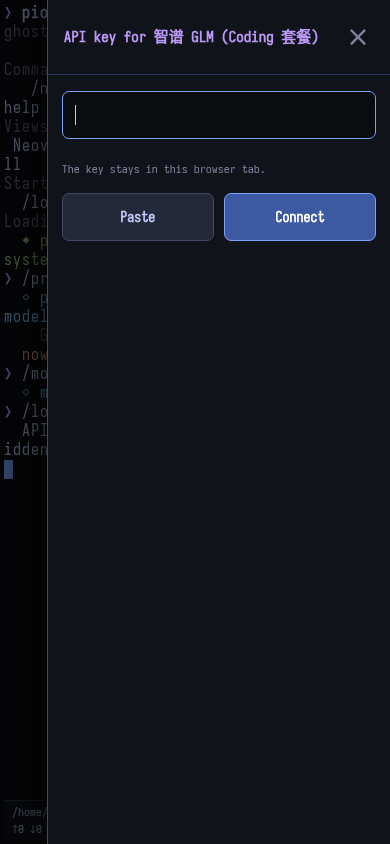
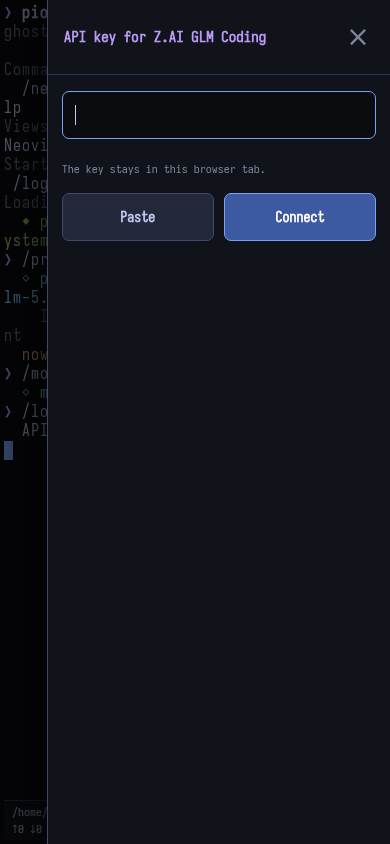
fix: verify GLM Coding credentials

diff --git a/src/provider-auth.ts b/src/provider-auth.ts
@@ -1,0 +1,71 @@
+import type { ProviderDef } from "./providers.ts";
+
+type FetchLike = (
+  input: RequestInfo | URL,
+  init?: RequestInit,
+) => Promise<Response>;
+
+export type ApiKeyVerification = "verified" | "not-supported";
+
+const GLM_PROVIDERS = new Set([
+  "zhipu",
+  "zhipu-coding",
+  "zhipu-coding-cn",
+]);
+
+export function normalizeApiKey(value: string): string {
+  let normalized = value.trim().replace(/^Bearer\s+/i, "").trim();
+  if (
+    normalized.length >= 2 &&
+    ((normalized.startsWith('"') && normalized.endsWith('"')) ||
+      (normalized.startsWith("'") && normalized.endsWith("'")))
+  ) {
+    normalized = normalized.slice(1, -1);
+  }
+  return normalized.replace(/[\s\u200B-\u200D\u2060\uFEFF]+/gu, "");
+}
+
+function responseMessage(text: string): string {
+  try {
+    const parsed = JSON.parse(text) as {
+      error?: { message?: unknown };
+      message?: unknown;
+    };
+    const message = parsed.error?.message ?? parsed.message;
+    return typeof message === "string" ? message.trim().slice(0, 240) : "";
+  } catch {
+    return text.trim().slice(0, 240);
+  }
+}
+
+export async function verifyApiKey(
+  provider: Pick<ProviderDef, "name" | "label" | "baseUrl">,
+  apiKey: string,
+  fetchImpl: FetchLike = fetch,
+): Promise<ApiKeyVerification> {
+  if (!GLM_PROVIDERS.has(provider.name)) return "not-supported";
+
+  let response: Response;
+  try {
+    response = await fetchImpl(`${provider.baseUrl.replace(/\/+$/, "")}/models`, {
+      headers: { Authorization: `Bearer ${apiKey}` },
+    });
+  } catch (error) {
+    throw new Error(
+      `could not verify ${provider.label}: ${
+        error instanceof Error ? error.message : String(error)
+      }`,
+    );
+  }
+
+  if (response.ok) return "verified";
+
+  const detail = responseMessage(await response.text().catch(() => ""));
+  const suffix = detail ? `: ${detail}` : "";
+  if (response.status === 401 || response.status === 403) {
+    throw new Error(`${provider.label} rejected this API key${suffix}`);
+  }
+  throw new Error(
+    `${provider.label} key check returned HTTP ${response.status}${suffix}`,
+  );
+}

diff --git a/test/provider-auth.test.ts b/test/provider-auth.test.ts
@@ -1,0 +1,60 @@
+import assert from "node:assert/strict";
+import test from "node:test";
+import { normalizeApiKey, verifyApiKey } from "../src/provider-auth.ts";
+
+const glmCoding = {
+  name: "zhipu-coding",
+  label: "GLM Coding",
+  baseUrl: "https://api.z.ai/api/coding/paas/v4/",
+};
+
+test("API key normalization removes common copy/paste artifacts", () => {
+  assert.equal(normalizeApiKey("  Bearer abc.def  \n"), "abc.def");
+  assert.equal(normalizeApiKey('"abc.def"'), "abc.def");
+  assert.equal(normalizeApiKey("abc\u200B.def"), "abc.def");
+});
+
+test("GLM API keys are verified without making a completion request", async () => {
+  let request: { input: RequestInfo | URL; init?: RequestInit } | undefined;
+  const result = await verifyApiKey(glmCoding, "test-key", async (input, init) => {
+    request = { input, init };
+    return new Response('{"object":"list","data":[]}', { status: 200 });
+  });
+
+  assert.equal(result, "verified");
+  assert.equal(
+    String(request?.input),
+    "https://api.z.ai/api/coding/paas/v4/models",
+  );
+  assert.equal(
+    new Headers(request?.init?.headers).get("Authorization"),
+    "Bearer test-key",
+  );
+});
+
+test("GLM rejects invalid keys during login", async () => {
+  await assert.rejects(
+    verifyApiKey(glmCoding, "invalid", async () =>
+      new Response(
+        '{"error":{"code":"401","message":"token expired or incorrect"}}',
+        { status: 401 },
+      ),
+    ),
+    /GLM Coding rejected this API key: token expired or incorrect/,
+  );
+});
+
+test("providers without a safe key-check endpoint remain unchanged", async () => {
+  const result = await verifyApiKey(
+    {
+      name: "openai",
+      label: "OpenAI",
+      baseUrl: "https://api.openai.com/v1",
+    },
+    "test-key",
+    async () => {
+      throw new Error("fetch should not run");
+    },
+  );
+  assert.equal(result, "not-supported");
+});

diff --git a/src/providers.ts b/src/providers.ts
@@ -190,16 +190,31 @@ export const PROVIDERS: Record<string, ProviderDef> = {
   },
   "zhipu-coding": {
     name: "zhipu-coding",
-    label: "智谱 GLM (Coding 套餐)",
+    label: "Z.AI GLM Coding",
+    api: "openai-completions",
+    transport: "http",
+    auth: "api-key",
+    baseUrl: "https://api.z.ai/api/coding/paas/v4",
+    defaultModel: "glm-5.2",
+    loadModels: modelCatalogue("zhipu-coding", "glm-5.2", () =>
+      import("@earendil-works/pi-ai/providers/zai.models").then((module) => module.ZAI_MODELS),
+    ),
+    note: "International GLM Coding Plan endpoint",
+  },
+  "zhipu-coding-cn": {
+    name: "zhipu-coding-cn",
+    label: "智谱 GLM Coding (中国)",
     api: "openai-completions",
     transport: "http",
     auth: "api-key",
     baseUrl: "https://open.bigmodel.cn/api/coding/paas/v4",
     defaultModel: "glm-5.2",
-    loadModels: modelCatalogue("zhipu-coding", "glm-5.2", () =>
-      import("@earendil-works/pi-ai/providers/zai.models").then((module) => module.ZAI_MODELS),
+    loadModels: modelCatalogue("zhipu-coding-cn", "glm-5.2", () =>
+      import("@earendil-works/pi-ai/providers/zai-coding-cn.models").then(
+        (module) => module.ZAI_CODING_CN_MODELS,
+      ),
     ),
-    note: "GLM Coding Plan 订阅专用端点",
+    note: "China GLM Coding Plan endpoint",
   },
   // Local-only subscription auth bridge; OAuth credentials never enter the
   // browser.
@@ -242,6 +257,9 @@ const ALIASES: Record<string, ProviderDef> = {
   kimi: PROVIDERS.moonshot,
   glm: PROVIDERS.zhipu,
   "glm-coding": PROVIDERS["zhipu-coding"],
+  "glm-coding-cn": PROVIDERS["zhipu-coding-cn"],
+  zai: PROVIDERS["zhipu-coding"],
+  "zai-coding": PROVIDERS["zhipu-coding"],
   zhipuai: PROVIDERS.zhipu,
   bigmodel: PROVIDERS.zhipu,
   moonshotai: PROVIDERS.moonshot,

diff --git a/src/main.ts b/src/main.ts
@@ -67,6 +67,7 @@ import { makeJsRunner, startWasiProgram, supportsWorkerWasi } from "./wasi/brows
 import { installWasiPythonModule } from "./wasi/python-module.ts";
 import { SlopSession } from "./slop.ts";
 import { MobileCommandUi } from "./mobile-command-ui.ts";
+import { normalizeApiKey, verifyApiKey } from "./provider-auth.ts";
 
 const NEOVIM_ENABLED = import.meta.env.VITE_ENABLE_NEOVIM !== "0";
 
@@ -1383,10 +1384,17 @@ async function runSlash(input: string) {
         break;
       }
       const key = await prompt.ask(`  API key for ${provider.label} (hidden): `, true);
-      const trimmed = key.trim();
-      if (trimmed) {
-        apiKeys.set(provider.name, trimmed);
-        say(green(`  ◆ key set for ${provider.label}`));
+      const normalized = normalizeApiKey(key);
+      if (normalized) {
+        const verification = await verifyApiKey(provider, normalized);
+        apiKeys.set(provider.name, normalized);
+        say(
+          green(
+            `  ◆ key ${verification === "verified" ? "verified and " : ""}set for ${
+              provider.label
+            }`,
+          ),
+        );
       } else {
         say(yellow("  login cancelled"));
       }

diff --git a/src/openai-stream.ts b/src/openai-stream.ts
@@ -323,7 +323,7 @@ async function run(
 
   if (!resp.ok || !resp.body) {
     const text = await resp.text().catch(() => "");
-    emitError(stream, model, `HTTP ${resp.status} ${resp.statusText}\n${text}`.trim());
+    emitError(stream, model, formatHttpError(resp.status, resp.statusText, text));
     return;
   }
 
@@ -560,6 +560,23 @@ function emitError(stream: EventQueue, model: Model<Api>, message: string) {
     timestamp: Date.now(),
   };
   stream.push({ type: "error", reason: "error", error });
+}
+
+export function formatHttpError(
+  status: number,
+  statusText: string,
+  text: string,
+): string {
+  const trimmed = text.trim();
+  if (trimmed) {
+    try {
+      const parsed = JSON.parse(trimmed) as { error?: unknown };
+      return `Error: ${status}: ${JSON.stringify(parsed.error ?? parsed)}`;
+    } catch {
+      return `Error: ${status}${statusText ? ` ${statusText}` : ""}: ${trimmed}`;
+    }
+  }
+  return `Error: ${status}${statusText ? ` ${statusText}` : ""}`;
 }
 
 /* ------------------------------- mappers -------------------------------- */

diff --git a/test/browser-models.test.ts b/test/browser-models.test.ts
@@ -254,3 +254,17 @@ test("WebLLM is an independent WebGPU catalogue with tool support marked", async
 test("browser-local providers are the first choices", () => {
   assert.deepEqual(Object.keys(PROVIDERS).slice(0, 2), ["webllm", "wllama"]);
 });
+
+test("GLM Coding separates the international and China endpoints", async () => {
+  const international = getProvider("glm-coding");
+  const china = getProvider("glm-coding-cn");
+  assert.ok(international);
+  assert.ok(china);
+
+  assert.equal(international, getProvider("zai"));
+  assert.equal(international, getProvider("zai-coding"));
+  assert.equal(international.baseUrl, "https://api.z.ai/api/coding/paas/v4");
+  assert.equal(china.baseUrl, "https://open.bigmodel.cn/api/coding/paas/v4");
+  assert.ok((await international.loadModels()).includes("glm-5.2"));
+  assert.ok((await china.loadModels()).includes("glm-5.2"));
+});

diff --git a/test/openai-events.test.ts b/test/openai-events.test.ts
@@ -5,6 +5,7 @@ import type { AssistantMessageEvent } from "@earendil-works/pi-ai";
 import { makeModel } from "../src/model.ts";
 import {
   EventQueue,
+  formatHttpError,
   OpenAIEventAdapter,
 } from "../src/openai-stream.ts";
 
@@ -102,4 +103,19 @@ test("OpenAI event adapter preserves streamed text, tool arguments, and usage", 
       arguments: { path: "/home/web/main.c" },
     },
   ]);
+});
+
+test("OpenAI HTTP errors unwrap provider error envelopes", () => {
+  assert.equal(
+    formatHttpError(
+      429,
+      "Too Many Requests",
+      '{"error":{"code":"1310","message":"Weekly/Monthly Limit Exhausted"}}',
+    ),
+    'Error: 429: {"code":"1310","message":"Weekly/Monthly Limit Exhausted"}',
+  );
+  assert.equal(
+    formatHttpError(401, "Unauthorized", "token expired or incorrect"),
+    "Error: 401 Unauthorized: token expired or incorrect",
+  );
 });

diff --git a/docs/development.md b/docs/development.md
@@ -50,6 +50,9 @@ Set `DOCS_SCREENSHOT_URL` or `CHROME_BIN` to override the defaults. The script
 uses an isolated temporary Chrome profile, validates the mobile GLM login flow,
 and writes to `screens/`.
 
+Set `DOCS_GLM_API_KEY` for the optional live GLM check. Set
+`DOCS_SCREENSHOT_WRITE=0` to validate without replacing screenshots.
+
 ## GitHub Pages
 
 `.github/workflows/pages.yml` tests and builds every push to `main`, then

diff --git a/docs/mobile.md b/docs/mobile.md
@@ -13,4 +13,5 @@ Tap the floating `/` button or swipe left from the right edge.
 3. Choose `/login`, paste the API key, and tap **Connect**.
 
 The drawer is limited to these three commands. API keys stay in page memory
-and are cleared on refresh.
+and are cleared on refresh. GLM keys are checked without running a completion
+before they are stored.
